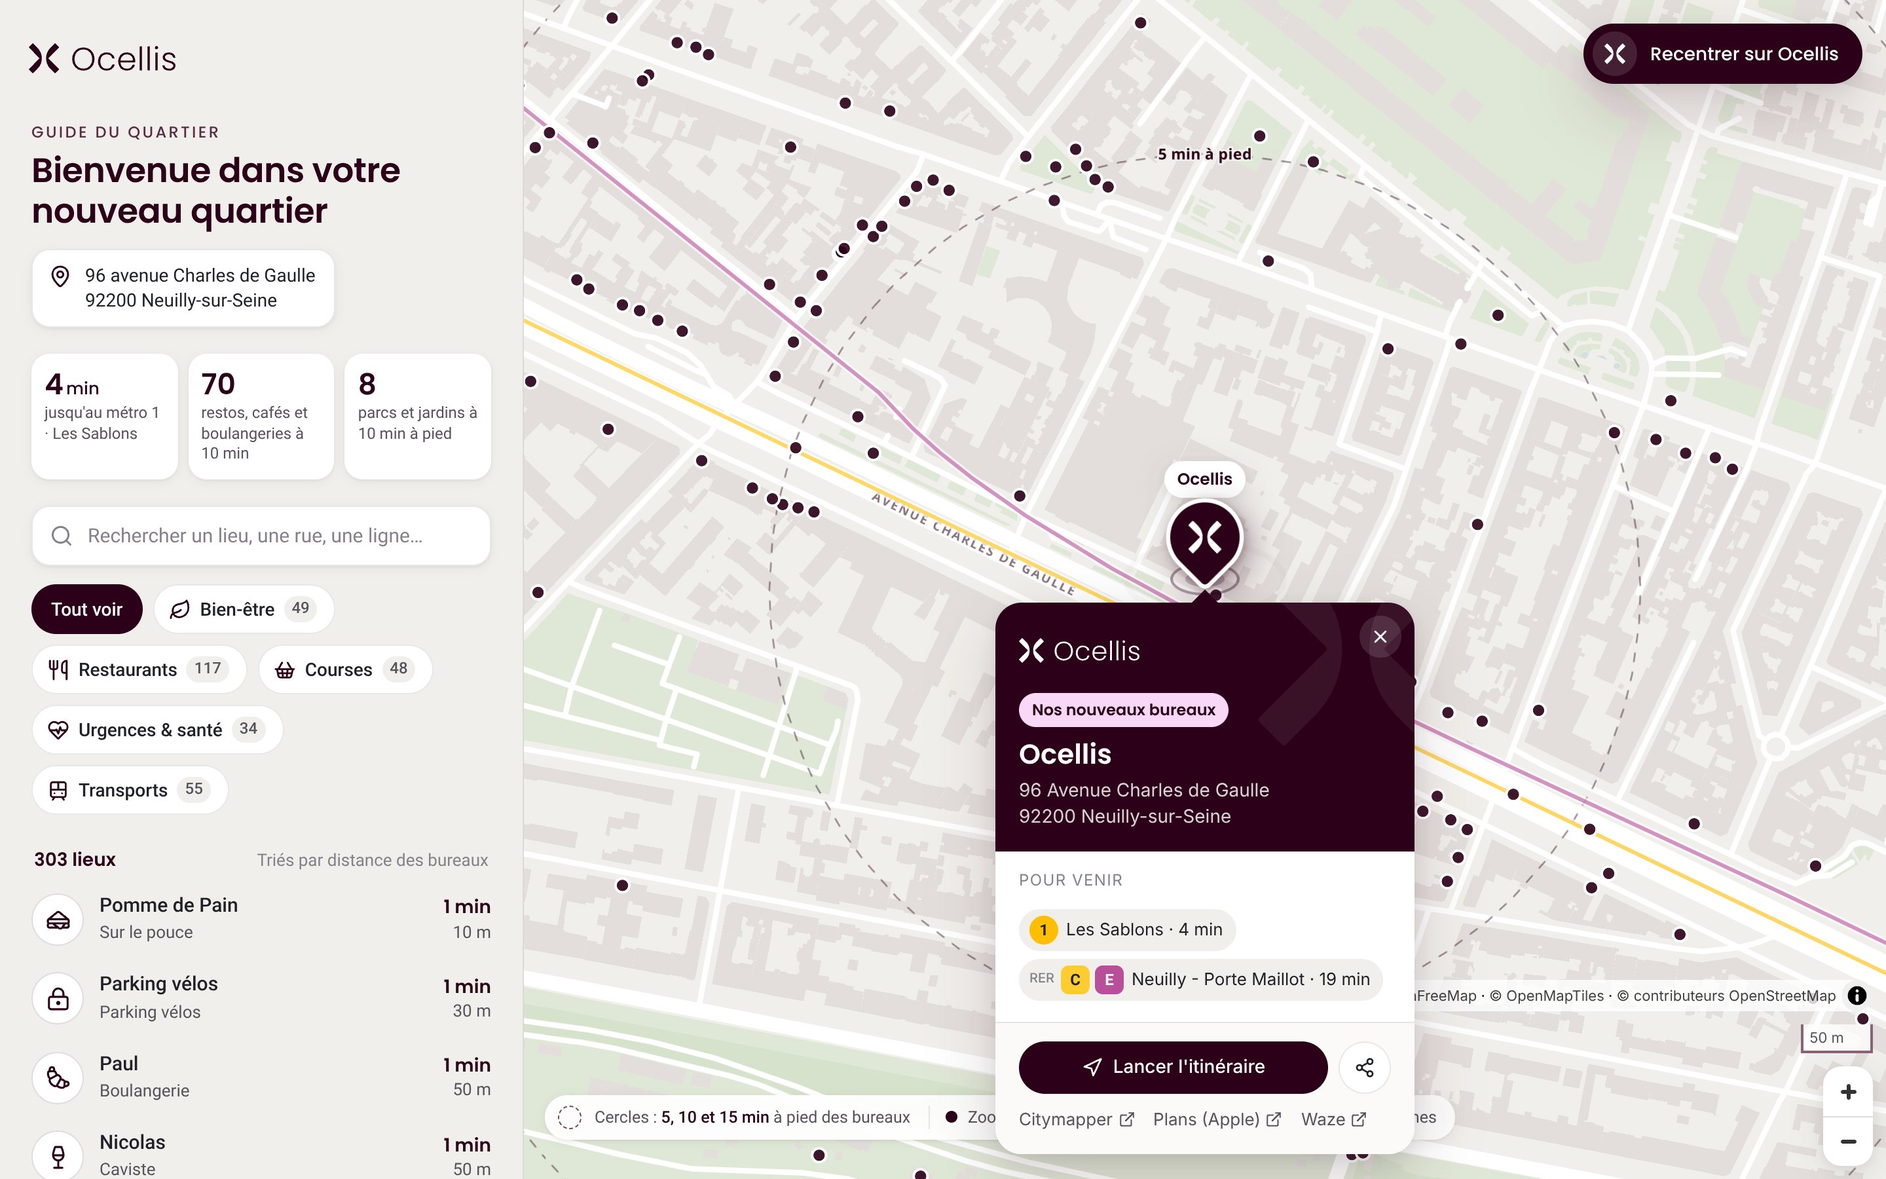
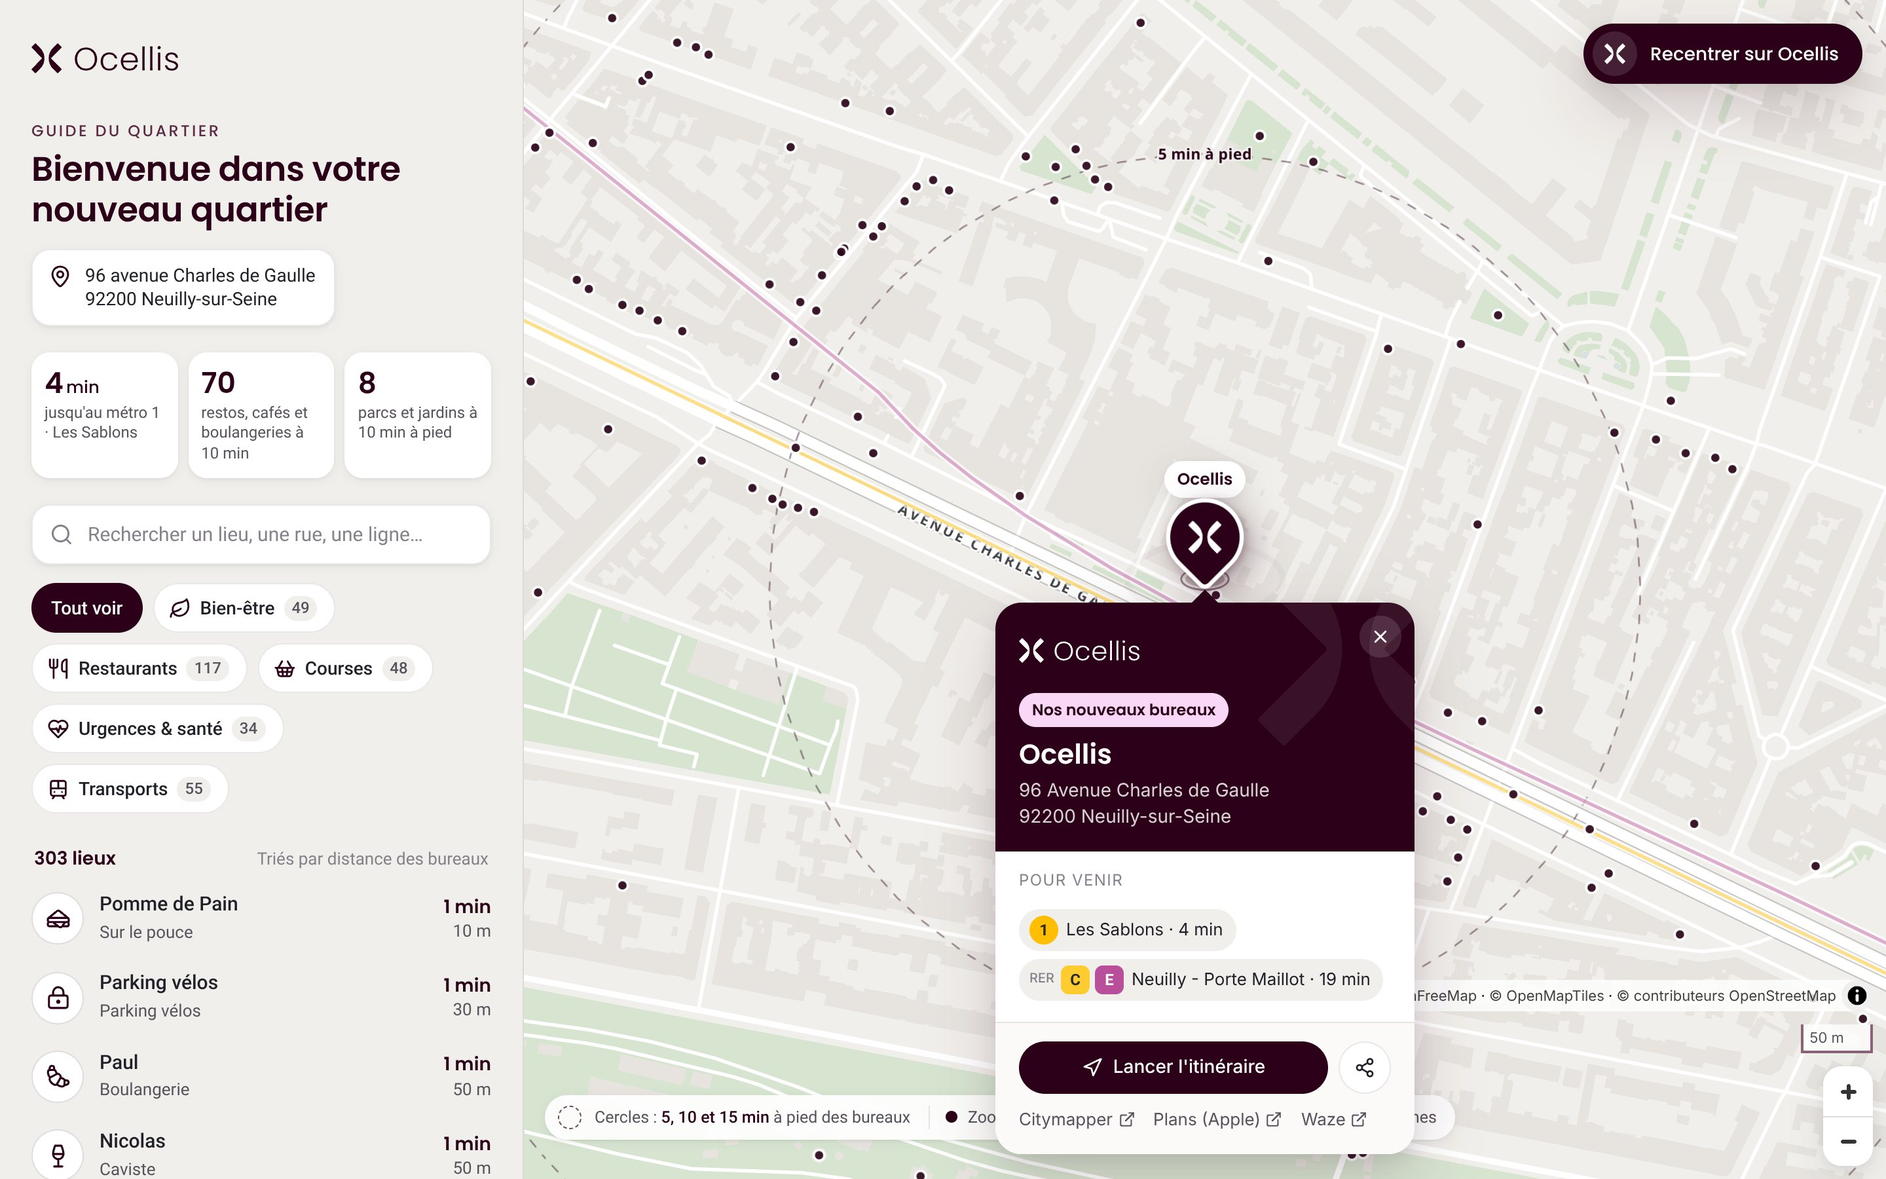
Fond de carte : style « plan de quartier » épuré aux couleurs de la charte
- palette réduite : blanc cassé #F1EFEB, anthracite #26282D pour les textes,
  vert #B0D6AA atténué pour les espaces verts, blanc pour les rues ; l'aubergine
  #2B041A est réservée au marqueur Ocellis et aux interactions ;
- bâti en aplats très clairs aux bords nets (antialiasing sans contour visible),
  en fondu à l'apparition ;
- voirie blanche sur trois niveaux, sans bordure ; double filet fin sur
  l'avenue Charles de Gaulle et libellé renforcé pour la repérer ;
- espaces verts homogènes, sans jardins privés ni massifs ;
- libellés sobres et moins répétés ; les noms de rues évitent les points et
  le marqueur Ocellis ;
- images des marqueurs générées à la résolution réelle de l'écran (×2/×3) ;
  tracés des lignes de transport adoucis.

Aucune donnée ni fonctionnalité modifiée. Captures du README mises à jour.

Claude-Session: https://claude.ai/code/session_01HHKWByJ1UGMeUP9sBrXz3t

diff --git a/assets/js/map-style.js b/assets/js/map-style.js
@@ -1,40 +1,59 @@
 /**
- * Fond de carte Ocellis — style « plan d'architecte », volontairement épuré.
- *  - bâtiments en aplats sans contour, rues en négatif (blanc), aucune bordure de voie ;
- *  - ni numéros, ni chemins, ni limites administratives, ni pictogrammes du fond ;
- *  - seuls les grands axes sont nommés, en petites capitales espacées.
+ * Fond de carte Ocellis — plan de quartier « dessiné sur mesure ».
+ *
+ * Principes :
+ *  - palette réduite de la charte : blanc cassé #F1EFEB, anthracite #26282D (textes),
+ *    vert doux #B0D6AA atténué (espaces verts), blanc (rues) ; l'aubergine #2B041A est
+ *    réservée au marqueur Ocellis et aux interactions (elle n'apparaît pas dans le fond) ;
+ *  - bâti en aplats très clairs, bords nets, sans contour visible ni ombre ;
+ *  - rues en blanc, sans bordure, sur trois niveaux de largeur ; seule l'avenue Charles de Gaulle
+ *    reçoit un double filet fin pour rester repérable ;
+ *  - libellés sobres et peu répétés : grands axes en petites capitales, petites rues de près.
+ *
  * Tuiles vectorielles OpenFreeMap (données © OpenStreetMap, schéma OpenMapTiles) — gratuites,
- * sans clé d'API, y compris pour un usage professionnel.
+ * sans clé d'API, y compris pour un usage professionnel. La géométrie (positions des rues,
+ * bâtiments, parcs) n'est jamais modifiée : seul le rendu l'est.
  */
 export const BRAND = {
-  prune: '#2b0018',
+  prune: '#2b041a', // aubergine Ocellis (charte)
   pruneSoft: '#5b2a44',
   rose: '#f9d7f6',
   paper: '#f1efeb',
-  ink: '#1f2028',
+  ink: '#26282d', // anthracite (charte)
 };
 
 const C = {
-  land: '#f1efeb', // blanc Ocellis
-  block: '#e3dedb', // bâti : blanc teinté d'aubergine
-  green: '#dfe7d6',
-  wood: '#d6e2cc',
-  water: '#d4dfe4',
-  waterLabel: '#7b929e',
+  land: '#f1efeb',
+  building: '#e7e4df', // aplat à peine plus soutenu que le fond
+  green: '#d6e4d0', // #B0D6AA atténué sur le blanc cassé
+  water: '#d9e0e2',
   street: '#ffffff',
-  label: 'rgba(43, 0, 24, 0.55)',
-  labelSoft: 'rgba(43, 0, 24, 0.38)',
-  halo: 'rgba(241, 239, 235, 0.95)',
+  axisEdge: 'rgba(38, 40, 45, 0.24)', // filets de l'avenue Charles de Gaulle
+  labelAxis: 'rgba(38, 40, 45, 0.86)',
+  labelMajor: 'rgba(38, 40, 45, 0.66)',
+  labelMinor: 'rgba(38, 40, 45, 0.48)',
+  labelPlace: 'rgba(38, 40, 45, 0.4)',
+  labelWater: '#7c8d95',
+  halo: '#ffffff',
+  haloLand: 'rgba(241, 239, 235, 0.95)',
 };
 
 const FONT = ['Noto Sans Regular'];
 const FONT_BOLD = ['Noto Sans Bold'];
 const FONT_ITALIC = ['Noto Sans Italic'];
 const NAME = ['coalesce', ['get', 'name:fr'], ['get', 'name'], ['get', 'name:latin'], ''];
+const AXIS_NAME = 'Avenue Charles de Gaulle';
 
 const cls = (...v) => ['match', ['get', 'class'], v, true, false];
+const sub = (...v) => ['match', ['get', 'subclass'], v, true, false];
 const notTunnel = ['!=', ['get', 'brunnel'], 'tunnel'];
-const zw = (pairs) => ['interpolate', ['exponential', 1.5], ['zoom'], ...pairs];
+const isAxis = ['all', ['==', ['get', 'name'], AXIS_NAME], cls('primary', 'trunk')];
+const zw = (...stops) => ['interpolate', ['exponential', 1.5], ['zoom'], ...stops.flat()];
+
+/* Largeurs des voies (px), par niveau hiérarchique. */
+const W_MINOR = zw([13.5, 0.5], [16, 3], [18, 9]);
+const W_MEDIUM = zw([12, 0.7], [16, 5], [18, 14]);
+const W_MAJOR = zw([11, 1], [16, 8], [18, 22]);
 
 export function buildStyle() {
   return {
@@ -54,66 +73,105 @@ export function buildStyle() {
     layers: [
       { id: 'background', type: 'background', paint: { 'background-color': C.land } },
 
-      // Végétation et eau, en aplats doux
-      { id: 'landcover-grass', type: 'fill', source: 'openmaptiles', 'source-layer': 'landcover',
-        filter: cls('grass'), paint: { 'fill-color': C.green } },
-      { id: 'landcover-wood', type: 'fill', source: 'openmaptiles', 'source-layer': 'landcover',
-        filter: cls('wood'), paint: { 'fill-color': C.wood } },
-      { id: 'landuse-green', type: 'fill', source: 'openmaptiles', 'source-layer': 'landuse',
-        filter: cls('cemetery', 'stadium', 'pitch', 'playground'), paint: { 'fill-color': C.green } },
-      { id: 'park', type: 'fill', source: 'openmaptiles', 'source-layer': 'park',
-        paint: { 'fill-color': C.green, 'fill-opacity': 0.7 } },
-      { id: 'water', type: 'fill', source: 'openmaptiles', 'source-layer': 'water',
-        filter: notTunnel, paint: { 'fill-color': C.water } },
+      /* Espaces verts : une seule teinte, surfaces homogènes.
+         Les jardins privés et massifs de fleurs (petites taches) ne sont pas dessinés. */
+      { id: 'green-wood', type: 'fill', source: 'openmaptiles', 'source-layer': 'landcover',
+        filter: cls('wood'), paint: { 'fill-color': C.green, 'fill-outline-color': C.green } },
+      { id: 'green-grass', type: 'fill', source: 'openmaptiles', 'source-layer': 'landcover',
+        filter: ['all', cls('grass'), ['!', sub('garden', 'flowerbed', 'allotments')]],
+        paint: { 'fill-color': C.green, 'fill-outline-color': C.green } },
+      { id: 'green-landuse', type: 'fill', source: 'openmaptiles', 'source-layer': 'landuse',
+        filter: cls('cemetery'), paint: { 'fill-color': C.green, 'fill-outline-color': C.green } },
+      { id: 'green-park', type: 'fill', source: 'openmaptiles', 'source-layer': 'park',
+        paint: { 'fill-color': C.green, 'fill-outline-color': C.green } },
 
-      // Bâti : aplats sans contour (« plan masse »)
-      { id: 'building', type: 'fill', source: 'openmaptiles', 'source-layer': 'building', minzoom: 13,
+      /* Eau */
+      { id: 'water', type: 'fill', source: 'openmaptiles', 'source-layer': 'water',
+        filter: notTunnel, paint: { 'fill-color': C.water, 'fill-outline-color': C.water } },
+      { id: 'waterway', type: 'line', source: 'openmaptiles', 'source-layer': 'waterway',
+        layout: { 'line-cap': 'round', 'line-join': 'round' },
+        paint: { 'line-color': C.water, 'line-width': zw([12, 0.8], [18, 4]) } },
+
+      /* Bâti : aplats très clairs, bords nets (antialiasing + contour de la même couleur),
+         en fondu à l'apparition pour garder une lecture d'îlots à petite échelle. */
+      { id: 'building', type: 'fill', source: 'openmaptiles', 'source-layer': 'building', minzoom: 14,
         paint: {
-          'fill-color': C.block,
-          'fill-antialias': false,
-          'fill-opacity': ['interpolate', ['linear'], ['zoom'], 13, 0, 14.5, 1],
+          'fill-color': C.building,
+          'fill-outline-color': C.building,
+          'fill-antialias': true,
+          'fill-opacity': ['interpolate', ['linear'], ['zoom'], 14, 0, 15.2, 1],
         } },
 
-      // Rues en négatif, sans bordure
-      { id: 'street-minor', type: 'line', source: 'openmaptiles', 'source-layer': 'transportation', minzoom: 13,
+      /* Voirie : trois niveaux, en blanc, sans bordure. Ni chemins, ni tunnels, ni voies de service isolées. */
+      { id: 'street-minor', type: 'line', source: 'openmaptiles', 'source-layer': 'transportation', minzoom: 13.5,
         filter: ['all', notTunnel, cls('minor', 'service')],
         layout: { 'line-cap': 'round', 'line-join': 'round' },
-        paint: { 'line-color': C.street, 'line-width': zw([13, 0.6, 18, 12]) } },
-      { id: 'street-major', type: 'line', source: 'openmaptiles', 'source-layer': 'transportation',
-        filter: ['all', notTunnel, cls('motorway', 'trunk', 'primary', 'secondary', 'tertiary')],
+        paint: { 'line-color': C.street, 'line-width': W_MINOR } },
+      { id: 'street-medium', type: 'line', source: 'openmaptiles', 'source-layer': 'transportation',
+        filter: ['all', notTunnel, cls('secondary', 'tertiary')],
         layout: { 'line-cap': 'round', 'line-join': 'round' },
-        paint: { 'line-color': C.street, 'line-width': zw([11, 1.2, 18, 28]) } },
+        paint: { 'line-color': C.street, 'line-width': W_MEDIUM } },
+      { id: 'street-major', type: 'line', source: 'openmaptiles', 'source-layer': 'transportation',
+        filter: ['all', notTunnel, cls('primary', 'trunk', 'motorway')],
+        layout: { 'line-cap': 'round', 'line-join': 'round' },
+        paint: { 'line-color': C.street, 'line-width': W_MAJOR } },
 
-      // Libellés : grands axes en petites capitales, petites rues seulement de très près
+      /* Avenue Charles de Gaulle : double filet fin de part et d'autre de la chaussée. */
+      { id: 'axis-cdg-edges', type: 'line', source: 'openmaptiles', 'source-layer': 'transportation_name', minzoom: 13,
+        filter: isAxis,
+        layout: { 'line-cap': 'butt', 'line-join': 'round' },
+        paint: {
+          'line-color': C.axisEdge,
+          'line-width': ['interpolate', ['linear'], ['zoom'], 13, 0.6, 17, 1],
+          'line-gap-width': zw([11, 1], [16, 9], [18, 23]),
+        } },
+
+      /* Libellés */
       { id: 'water-name', type: 'symbol', source: 'openmaptiles', 'source-layer': 'water_name',
         layout: {
-          'text-field': NAME, 'text-font': FONT_ITALIC, 'text-size': 13, 'text-letter-spacing': 0.12,
-          'symbol-placement': ['step', ['zoom'], 'point', 13, 'line'],
+          'text-field': NAME, 'text-font': FONT_ITALIC, 'text-size': 12.5, 'text-letter-spacing': 0.14,
+          'symbol-placement': ['step', ['zoom'], 'point', 13, 'line'], 'symbol-spacing': 600,
         },
-        paint: { 'text-color': C.waterLabel, 'text-halo-color': C.halo, 'text-halo-width': 1 } },
-      { id: 'street-name-major', type: 'symbol', source: 'openmaptiles', 'source-layer': 'transportation_name', minzoom: 14,
-        filter: cls('trunk', 'primary', 'secondary'),
+        paint: { 'text-color': C.labelWater, 'text-halo-color': C.haloLand, 'text-halo-width': 1 } },
+      { id: 'axis-cdg-name', type: 'symbol', source: 'openmaptiles', 'source-layer': 'transportation_name', minzoom: 13,
+        filter: isAxis,
         layout: {
           'text-field': ['upcase', NAME], 'text-font': FONT_BOLD,
-          'text-size': zw([14, 9, 18, 11.5]), 'text-letter-spacing': 0.16,
-          'symbol-placement': 'line', 'symbol-spacing': 420, 'text-max-angle': 25,
+          'text-size': zw([13, 10], [18, 13]), 'text-letter-spacing': 0.2,
+          'symbol-placement': 'line', 'symbol-spacing': 520, 'text-max-angle': 20, 'text-padding': 6,
         },
-        paint: { 'text-color': C.label, 'text-halo-color': C.street, 'text-halo-width': 1.2 } },
-      { id: 'street-name-minor', type: 'symbol', source: 'openmaptiles', 'source-layer': 'transportation_name', minzoom: 16.8,
-        filter: cls('tertiary', 'minor'),
+        paint: { 'text-color': C.labelAxis, 'text-halo-color': C.halo, 'text-halo-width': 1.4 } },
+      { id: 'street-name-major', type: 'symbol', source: 'openmaptiles', 'source-layer': 'transportation_name', minzoom: 14,
+        filter: ['all', cls('trunk', 'primary', 'secondary'), ['!', isAxis]],
         layout: {
-          'text-field': NAME, 'text-font': FONT, 'text-size': 11,
-          'symbol-placement': 'line', 'symbol-spacing': 360, 'text-max-angle': 25,
+          'text-field': ['upcase', NAME], 'text-font': FONT,
+          'text-size': zw([14, 9], [18, 11.5]), 'text-letter-spacing': 0.16,
+          'symbol-placement': 'line', 'symbol-spacing': 700, 'text-max-angle': 20, 'text-padding': 6,
         },
-        paint: { 'text-color': C.labelSoft, 'text-halo-color': C.street, 'text-halo-width': 1.2 } },
-      { id: 'place-city', type: 'symbol', source: 'openmaptiles', 'source-layer': 'place', maxzoom: 15.5,
+        paint: { 'text-color': C.labelMajor, 'text-halo-color': C.halo, 'text-halo-width': 1.3 } },
+      { id: 'street-name-medium', type: 'symbol', source: 'openmaptiles', 'source-layer': 'transportation_name', minzoom: 15,
+        filter: cls('tertiary'),
+        layout: {
+          'text-field': ['upcase', NAME], 'text-font': FONT,
+          'text-size': zw([15, 9], [18, 11]), 'text-letter-spacing': 0.14,
+          'symbol-placement': 'line', 'symbol-spacing': 700, 'text-max-angle': 20, 'text-padding': 6,
+        },
+        paint: { 'text-color': C.labelMajor, 'text-halo-color': C.halo, 'text-halo-width': 1.3 } },
+      { id: 'street-name-minor', type: 'symbol', source: 'openmaptiles', 'source-layer': 'transportation_name', minzoom: 16.6,
+        filter: cls('minor'),
+        layout: {
+          'text-field': NAME, 'text-font': FONT, 'text-size': 10.5, 'text-letter-spacing': 0.03,
+          'symbol-placement': 'line', 'symbol-spacing': 520, 'text-max-angle': 20, 'text-padding': 6,
+        },
+        paint: { 'text-color': C.labelMinor, 'text-halo-color': C.halo, 'text-halo-width': 1.3 } },
+      { id: 'place-name', type: 'symbol', source: 'openmaptiles', 'source-layer': 'place', maxzoom: 15.2,
         filter: cls('city', 'town', 'village', 'suburb'),
         layout: {
           'text-field': ['upcase', NAME], 'text-font': FONT_BOLD,
-          'text-size': ['interpolate', ['linear'], ['zoom'], 11, 11, 15, 13], 'text-letter-spacing': 0.24,
+          'text-size': ['interpolate', ['linear'], ['zoom'], 11, 10.5, 15, 12.5], 'text-letter-spacing': 0.3,
           'text-max-width': 9,
         },
-        paint: { 'text-color': C.labelSoft, 'text-halo-color': C.halo, 'text-halo-width': 1.4 } },
+        paint: { 'text-color': C.labelPlace, 'text-halo-color': C.haloLand, 'text-halo-width': 1.4 } },
     ],
   };
 }

diff --git a/assets/js/app.js b/assets/js/app.js
@@ -193,7 +193,11 @@ function focusGeoJSON() {
   return { type: 'FeatureCollection', features };
 }
 
-/** Pictogramme de lieu dessiné en SVG puis enregistré comme image de la carte (@2x). */
+/* Les images de la carte sont générées à la résolution réelle de l'écran (×2 ou ×3) pour rester nettes. */
+const DPR = Math.min(3, Math.max(2, Math.ceil(window.devicePixelRatio || 1)));
+const px = (size) => size * (DPR / 2); // les dimensions ci-dessous sont exprimées en unités @2x
+
+/** Pictogramme de lieu dessiné en SVG puis enregistré comme image de la carte. */
 function markerSvg(glyph, active) {
   const size = active ? 96 : 70;
   const c = size / 2;
@@ -202,11 +206,11 @@ function markerSvg(glyph, active) {
   const s = gs / 24;
   const t = c - gs / 2;
   const fill = active ? BRAND.prune : '#ffffff';
-  const ring = active ? '#ffffff' : 'rgba(43,0,24,0.2)';
+  const ring = active ? '#ffffff' : 'rgba(43,4,26,0.2)';
   const glyphColor = active ? '#ffffff' : BRAND.prune;
-  return `<svg xmlns="http://www.w3.org/2000/svg" width="${size}" height="${size}" viewBox="0 0 ${size} ${size}">
+  return `<svg xmlns="http://www.w3.org/2000/svg" width="${px(size)}" height="${px(size)}" viewBox="0 0 ${size} ${size}">
     <defs><filter id="sh" x="-40%" y="-40%" width="180%" height="180%">
-      <feDropShadow dx="0" dy="${active ? 4 : 2}" stdDeviation="${active ? 4 : 2.4}" flood-color="#2b0018" flood-opacity="${active ? 0.35 : 0.22}"/>
+      <feDropShadow dx="0" dy="${active ? 4 : 2}" stdDeviation="${active ? 4 : 2.4}" flood-color="${BRAND.prune}" flood-opacity="${active ? 0.35 : 0.22}"/>
     </filter></defs>
     ${active ? `<circle cx="${c}" cy="${c}" r="${r + 6}" fill="${BRAND.rose}" opacity="0.9"/>` : ''}
     <circle cx="${c}" cy="${c}" r="${r}" fill="${fill}" stroke="${ring}" stroke-width="${active ? 4 : 2}" filter="url(#sh)"/>
@@ -223,16 +227,32 @@ function loadImage(svg) {
   });
 }
 
+/** Point aubergine de la vue d'ensemble (14 px), cerclé de blanc. */
+function dotSvg() {
+  return `<svg xmlns="http://www.w3.org/2000/svg" width="${px(28)}" height="${px(28)}" viewBox="0 0 28 28">
+    <circle cx="14" cy="14" r="9" fill="${BRAND.prune}" fill-opacity="0.92" stroke="#ffffff" stroke-width="4"/>
+  </svg>`;
+}
+
+/** Zone invisible couvrant le marqueur Ocellis : les noms de rues ne passent pas dessous. */
+function officeShieldSvg() {
+  return `<svg xmlns="http://www.w3.org/2000/svg" width="${px(132)}" height="${px(210)}" viewBox="0 0 132 210"><rect width="132" height="210" fill="none"/></svg>`;
+}
+
 async function registerIcons() {
   const names = new Set(Object.values(TYPES).map((t) => t.icon));
   names.add('map-pin');
+  const extra = [['poi-dot', dotSvg()], ['office-shield', officeShieldSvg()]];
+  await Promise.all(extra.map(async ([id, svg]) => {
+    if (!map.hasImage(id)) map.addImage(id, await loadImage(svg), { pixelRatio: DPR });
+  }));
   await Promise.all([...names].flatMap((name) => {
     const glyph = LUCIDE[name] || CUSTOM_ICONS[name];
     return [false, true].map(async (active) => {
       const id = `poi-${name}${active ? '-active' : ''}`;
       if (map.hasImage(id)) return;
       const img = await loadImage(markerSvg(glyph, active));
-      if (!map.hasImage(id)) map.addImage(id, img, { pixelRatio: 2 });
+      if (!map.hasImage(id)) map.addImage(id, img, { pixelRatio: DPR });
     });
   }));
 }
@@ -311,7 +331,11 @@ function initMap() {
     map.addLayer({
       id: 'rings-label', type: 'symbol', source: 'rings', filter: ['==', ['geometry-type'], 'Point'],
       layout: { 'text-field': ['get', 'label'], 'text-font': ['Noto Sans Bold'], 'text-size': 11.5, 'text-letter-spacing': 0.03, 'text-allow-overlap': true },
-      paint: { 'text-color': BRAND.prune, 'text-halo-color': 'rgba(241,239,235,0.95)', 'text-halo-width': 2 },
+      paint: {
+        'text-color': BRAND.prune, 'text-halo-color': 'rgba(241,239,235,0.95)', 'text-halo-width': 2,
+        // De loin, le libellé du petit cercle passerait sous le marqueur Ocellis : on le masque.
+        'text-opacity': ['step', ['zoom'], ['case', ['==', ['get', 'min'], 5], 0, 1], 14.8, 1],
+      },
     });
     map.addLayer({
       id: 'transit-casing', type: 'line', source: 'lines',
@@ -321,17 +345,17 @@ function initMap() {
     map.addLayer({
       id: 'transit', type: 'line', source: 'lines',
       layout: { 'line-cap': 'round', 'line-join': 'round' },
-      paint: { 'line-color': ['get', 'color'], 'line-width': ['interpolate', ['linear'], ['zoom'], 13, 1.6, 18, 4], 'line-opacity': 0.6 },
+      paint: { 'line-color': ['get', 'color'], 'line-width': ['interpolate', ['linear'], ['zoom'], 13, 1.4, 18, 3.5], 'line-opacity': 0.45 },
     });
     // Vue d'ensemble : de simples points aubergine, pour une carte épurée.
     map.addLayer({
-      id: 'places-dot', type: 'circle', source: 'places',
-      paint: {
-        'circle-color': BRAND.prune,
-        'circle-radius': ['interpolate', ['linear'], ['zoom'], 13, 2.6, 15, 4, 16.5, 5],
-        'circle-stroke-color': '#ffffff',
-        'circle-stroke-width': ['interpolate', ['linear'], ['zoom'], 13, 1, 16, 2],
-        'circle-opacity': 0.9,
+      id: 'places-dot', type: 'symbol', source: 'places',
+      layout: {
+        'icon-image': 'poi-dot',
+        'icon-size': ['interpolate', ['linear'], ['zoom'], 13, 0.55, 15, 0.8, 16.5, 1],
+        'icon-allow-overlap': true,
+        'icon-padding': 1,
+        'symbol-sort-key': ['-', 0, ['get', 'd']],
       },
     });
     // De près, ou quand une catégorie est choisie : les pictogrammes.
@@ -351,6 +375,11 @@ function initMap() {
         'text-optional': true,
       },
       paint: { 'text-color': BRAND.ink, 'text-halo-color': 'rgba(241,239,235,0.95)', 'text-halo-width': 1.6 },
+    });
+    map.addSource('office', { type: 'geojson', data: { type: 'Feature', properties: {}, geometry: { type: 'Point', coordinates: [office.lon, office.lat] } } });
+    map.addLayer({
+      id: 'office-shield', type: 'symbol', source: 'office',
+      layout: { 'icon-image': 'office-shield', 'icon-anchor': 'bottom', 'icon-allow-overlap': true },
     });
     map.addLayer({
       id: 'focus', type: 'symbol', source: 'focus',
